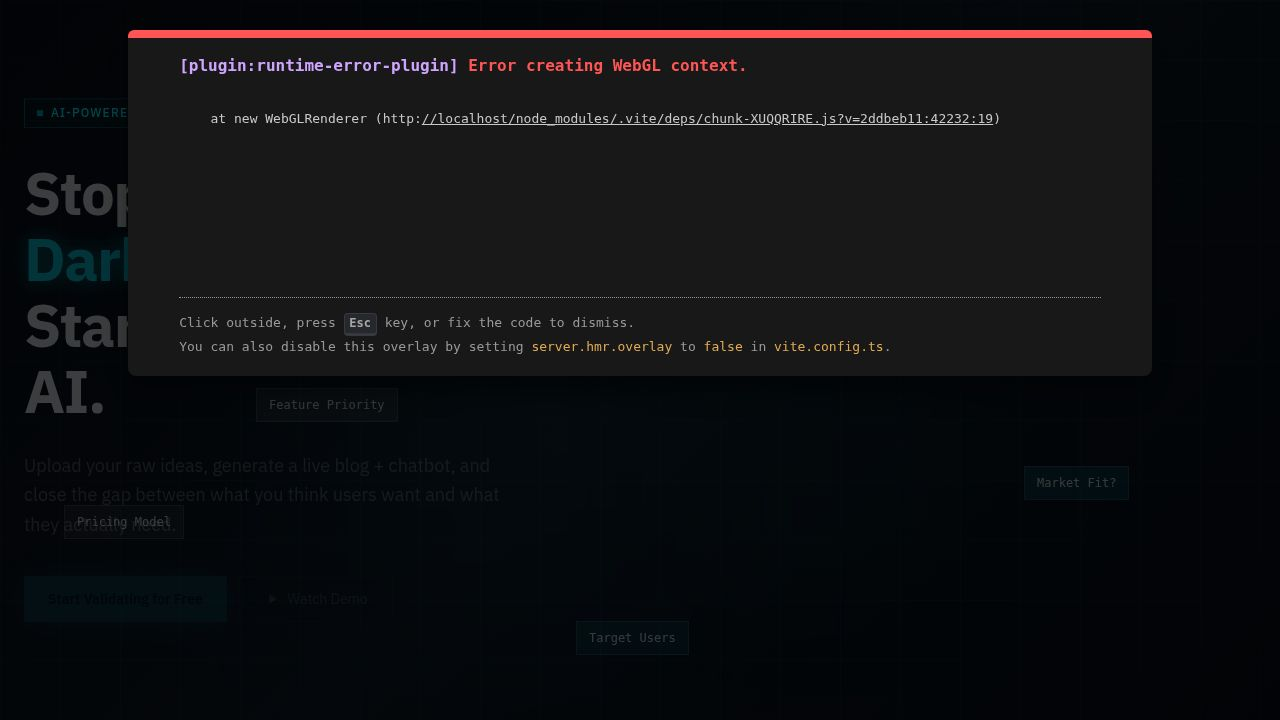
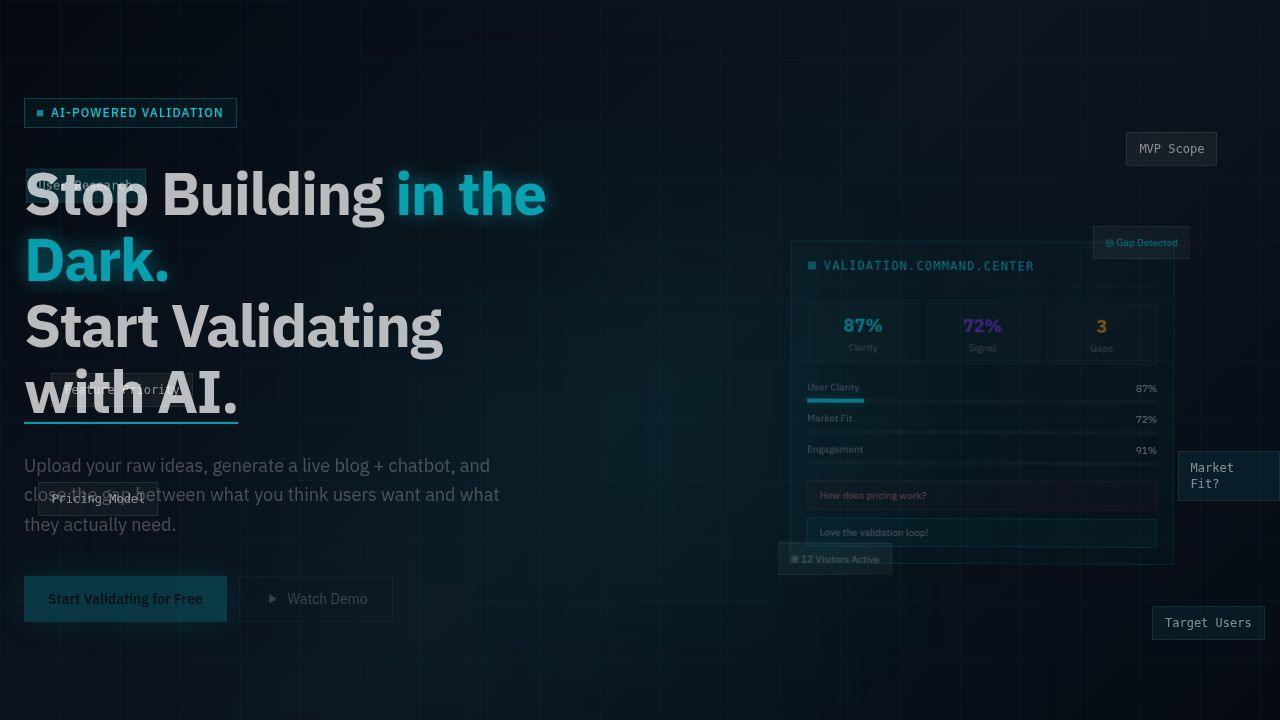
Refine page visuals and element positioning for better user experience
Adjusted CSS and component structures across various sections, including HeroSection.tsx, FeaturesSection.tsx, and MetricsSection.tsx, to improve visual appeal and layout. Modified positioning of interactive elements, added new animations like `shimmer`, and refined the appearance of cards and backgrounds.

Replit-Commit-Author: Agent
Replit-Commit-Session-Id: 7c1fd078-61de-4cb2-ab9d-bb225ae4c3d0
Replit-Commit-Checkpoint-Type: full_checkpoint
Replit-Commit-Event-Id: 4e6755e3-80e5-4043-b65a-4391f5f2b18a
Replit-Commit-Screenshot-Url: https://storage.googleapis.com/screenshot-production-us-central1/da4a26af-8da9-4b47-a4df-8cdd12bb246f/7c1fd078-61de-4cb2-ab9d-bb225ae4c3d0/DOHwiXe
Replit-Helium-Checkpoint-Created: true

diff --git a/artifacts/neesh-ai/src/components/sections/HeroSection.tsx b/artifacts/neesh-ai/src/components/sections/HeroSection.tsx
@@ -73,12 +73,12 @@ function DashboardPreview2D() {
 }
 
 const ideaFragments = [
-  { text: "User Research", color: "rgba(9,218,237,0.12)", x: "8%", y: "22%" },
-  { text: "MVP Scope", color: "rgba(255,255,255,0.05)", x: "72%", y: "17%" },
-  { text: "Market Fit?", color: "rgba(9,218,237,0.08)", x: "78%", y: "58%" },
-  { text: "Pricing Model", color: "rgba(255,255,255,0.04)", x: "4%", y: "62%" },
-  { text: "Target Users", color: "rgba(9,218,237,0.07)", x: "42%", y: "78%" },
-  { text: "Feature Priority", color: "rgba(255,255,255,0.05)", x: "18%", y: "48%" },
+  { text: "User Research", color: "rgba(9,218,237,0.09)", x: "87%", y: "14%" },
+  { text: "MVP Scope", color: "rgba(255,255,255,0.05)", x: "90%", y: "34%" },
+  { text: "Market Fit?", color: "rgba(9,218,237,0.07)", x: "85%", y: "72%" },
+  { text: "Pricing Model", color: "rgba(255,255,255,0.04)", x: "88%", y: "86%" },
+  { text: "Target Users", color: "rgba(9,218,237,0.06)", x: "1%", y: "82%" },
+  { text: "Feature Priority", color: "rgba(255,255,255,0.04)", x: "1%", y: "90%" },
 ];
 
 function GlitchCard({ text, color, x, y, delay }: { text: string; color: string; x: string; y: string; delay: number }) {
@@ -102,7 +102,7 @@ function GlitchCard({ text, color, x, y, delay }: { text: string; color: string;
 
   return (
     <div
-      className={`absolute px-3 py-2 text-xs text-white/50 border border-white/8 font-mono hidden md:block ${glitching ? "animate-glitch" : "animate-float"}`}
+      className={`absolute px-3 py-2 text-xs text-white/40 border border-white/8 font-mono hidden md:block pointer-events-none select-none z-0 ${glitching ? "animate-glitch" : "animate-float"}`}
       style={{ left: x, top: y, background: color, animationDelay: `${delay}ms` }}
     >
       {text}
@@ -119,7 +119,7 @@ export default function HeroSection() {
   return (
     <section
       ref={containerRef}
-      className="relative min-h-screen section-dark flex items-center overflow-hidden"
+      className="relative min-h-[100vh] section-dark flex items-center overflow-hidden"
     >
       {/* Background grid */}
       <div
@@ -235,6 +235,9 @@ export default function HeroSection() {
         <span className="text-white/30 text-xs tracking-widest uppercase">Scroll</span>
         <div className="w-0.5 h-8 bg-gradient-to-b from-[#09daed]/60 to-transparent animate-pulse" />
       </motion.div>
+
+      {/* Section separator */}
+      <div className="absolute bottom-0 left-0 right-0 h-px bg-gradient-to-r from-transparent via-[#09daed]/20 to-transparent" />
     </section>
   );
 }

diff --git a/artifacts/neesh-ai/src/components/sections/ProblemLoopSection.tsx b/artifacts/neesh-ai/src/components/sections/ProblemLoopSection.tsx
@@ -51,7 +51,7 @@ export default function ProblemLoopSection() {
   const cy = 175;
 
   return (
-    <section ref={sectionRef} className="relative section-dark py-24 overflow-hidden">
+    <section ref={sectionRef} className="relative section-dark py-32 overflow-hidden">
       <div className="absolute inset-0 opacity-[0.03]"
         style={{
           backgroundImage: `radial-gradient(#09daed 1px, transparent 1px)`,
@@ -65,6 +65,8 @@ export default function ProblemLoopSection() {
           <div className="flex items-center justify-center">
             <div className="relative" style={{ width: 350, height: 350 }}>
               <svg width="350" height="350" className="absolute inset-0">
+                {/* Dotted path behind nodes */}
+                <circle cx={cx} cy={cy} r={R} fill="none" stroke="rgba(255,255,255,0.05)" strokeWidth="1" strokeDasharray="4 8" />
                 {/* Outer ring */}
                 <circle cx={cx} cy={cy} r={R} fill="none" stroke="rgba(9,218,237,0.1)" strokeWidth="1" />
                 <circle cx={cx} cy={cy} r={R} fill="none" stroke="rgba(9,218,237,0.3)" strokeWidth="1"
@@ -110,13 +112,13 @@ export default function ProblemLoopSection() {
                     key={node.label}
                     className="absolute flex flex-col items-center"
                     style={{
-                      left: cx + x - 32,
-                      top: cy + y - 32,
-                      width: 64,
+                      left: cx + x - 34,
+                      top: cy + y - 34,
+                      width: 68,
                     }}
                   >
                     <div
-                      className={`w-14 h-14 border flex items-center justify-center text-xs font-semibold transition-all duration-500 ${
+                      className={`w-[68px] h-[68px] border flex items-center justify-center text-xs font-semibold transition-all duration-500 ${
                         isActive
                           ? "border-[#09daed] bg-[#09daed]/20 text-[#09daed] shadow-[0_0_20px_rgba(9,218,237,0.4)]"
                           : "border-white/10 bg-white/5 text-white/30"
@@ -190,6 +192,9 @@ export default function ProblemLoopSection() {
           </div>
         </div>
       </div>
+
+      {/* Section separator */}
+      <div className="absolute bottom-0 left-0 right-0 h-px bg-gradient-to-r from-transparent via-[#09daed]/20 to-transparent" />
     </section>
   );
 }

diff --git a/artifacts/neesh-ai/src/components/sections/MetricsSection.tsx b/artifacts/neesh-ai/src/components/sections/MetricsSection.tsx
@@ -68,6 +68,9 @@ export default function MetricsSection() {
 
   return (
     <section className="relative section-dark py-24 overflow-hidden">
+      {/* Background radial gradient */}
+      <div className="absolute inset-0 bg-[radial-gradient(circle_at_center,rgba(9,218,237,0.03)_0%,transparent_70%)]" />
+
       <ParticleField />
 
       {/* AI Core Glow */}
@@ -75,13 +78,14 @@ export default function MetricsSection() {
       <div className="absolute top-1/2 left-1/2 -translate-x-1/2 -translate-y-1/2 w-48 h-48 bg-[#09daed]/8 blur-[50px] pointer-events-none" />
 
       <div className="max-w-7xl mx-auto px-6 relative z-10">
-        <div ref={ref as React.RefObject<HTMLDivElement>} className="text-center mb-16">
+        <div ref={ref as React.RefObject<HTMLDivElement>} className="text-center mb-16 flex flex-col items-center">
           <motion.div
             initial={{ opacity: 0, y: 20 }}
             animate={inView ? { opacity: 1, y: 0 } : {}}
-            className="text-[#09daed] text-xs font-medium tracking-widest uppercase mb-4"
+            className="inline-flex items-center gap-2 px-3 py-1.5 border border-[#09daed]/30 bg-[#09daed]/5 mb-6"
           >
-            AI Metrics
+            <div className="w-1.5 h-1.5 bg-[#09daed] rounded-full animate-pulse" />
+            <span className="text-[#09daed] text-xs font-medium tracking-widest uppercase">AI Core • Live</span>
           </motion.div>
           <motion.h2
             initial={{ opacity: 0, y: 20 }}
@@ -94,7 +98,7 @@ export default function MetricsSection() {
           </motion.h2>
         </div>
 
-        <div className="grid grid-cols-1 sm:grid-cols-2 lg:grid-cols-4 gap-6">
+        <div className="grid grid-cols-1 sm:grid-cols-2 lg:grid-cols-4 gap-6 mb-8">
           {METRICS.map((metric, i) => (
             <motion.div
               key={metric.label}
@@ -129,6 +133,9 @@ export default function MetricsSection() {
           ))}
         </div>
       </div>
+
+      {/* Section separator */}
+      <div className="absolute bottom-0 left-0 right-0 h-px bg-gradient-to-r from-transparent via-[#09daed]/20 to-transparent" />
     </section>
   );
 }

diff --git a/artifacts/neesh-ai/src/components/sections/PricingSection.tsx b/artifacts/neesh-ai/src/components/sections/PricingSection.tsx
@@ -69,9 +69,10 @@ function PricingCard({ plan, index }: { plan: typeof PLANS[0]; index: number }) 
       transition={{ duration: 0.6, delay: index * 0.15 }}
       className={`relative p-6 border flex flex-col ${
         plan.highlight
-          ? "border-[#09daed]/60 bg-gradient-to-b from-[#09daed]/8 to-transparent"
+          ? "border-[#09daed]/60 bg-gradient-to-b from-[#09daed]/8 to-transparent scale-[1.03] z-10"
           : "border-white/10 bg-white/2"
       }`}
+      style={plan.highlight ? { boxShadow: "0 0 40px rgba(9,218,237,0.15)" } : {}}
     >
       {plan.highlight && (
         <div className="absolute -top-px left-0 right-0 h-0.5 bg-[#09daed]" />
@@ -161,7 +162,19 @@ export default function PricingSection() {
             <PricingCard key={plan.name} plan={plan} index={i} />
           ))}
         </div>
+
+        <motion.div
+          initial={{ opacity: 0 }}
+          animate={inView ? { opacity: 1 } : {}}
+          transition={{ duration: 0.6, delay: 0.5 }}
+          className="text-center mt-12 text-white/40 text-sm"
+        >
+          30-day money-back guarantee • No setup fees • Cancel anytime
+        </motion.div>
       </div>
+
+      {/* Section separator */}
+      <div className="absolute bottom-0 left-0 right-0 h-px bg-gradient-to-r from-transparent via-[#09daed]/20 to-transparent" />
     </section>
   );
 }

diff --git a/artifacts/neesh-ai/src/components/sections/FooterSection.tsx b/artifacts/neesh-ai/src/components/sections/FooterSection.tsx
@@ -13,6 +13,7 @@ export default function FooterSection() {
 
   return (
     <footer className="section-dark border-t border-white/5 pt-16 pb-8">
+      <div className="w-full h-px bg-gradient-to-r from-transparent via-[#09daed]/40 to-transparent mb-16" />
       <div className="max-w-7xl mx-auto px-6">
         <div
           ref={ref as React.RefObject<HTMLDivElement>}
@@ -35,10 +36,10 @@ export default function FooterSection() {
                 Turn your raw ideas into validated products using AI-powered feedback loops and intelligent gap detection.
               </p>
               <div className="flex items-center gap-3">
-                {["X", "Li", "Gh", "Ds"].map((social) => (
+                {["𝕏", "in", "gh", "ds"].map((social) => (
                   <div
                     key={social}
-                    className="w-8 h-8 border border-white/10 flex items-center justify-center text-white/40 text-xs hover:border-[#09daed]/40 hover:text-[#09daed] transition-all duration-200 cursor-pointer"
+                    className="w-8 h-8 border border-white/10 flex items-center justify-center text-white/40 text-xs hover:border-[#09daed]/40 hover:text-[#09daed] transition-all duration-200 cursor-pointer font-medium"
                   >
                     {social}
                   </div>

diff --git a/artifacts/neesh-ai/src/components/sections/FeaturesSection.tsx b/artifacts/neesh-ai/src/components/sections/FeaturesSection.tsx
@@ -46,6 +46,14 @@ function FeatureCard({ feature, index }: { feature: typeof FEATURES[0]; index: n
       className="group relative glass-dark p-6 border border-white/5 hover:border-[#09daed]/30 transition-all duration-300"
       style={{ animationDelay: `${index * 100}ms` }}
     >
+      {/* Number badge */}
+      <div className="absolute top-2 left-2 text-[10px] text-white/20 font-mono">
+        {String(index + 1).padStart(2, '0')}
+      </div>
+      
+      {/* Thin left border accent */}
+      <div className="absolute top-0 left-0 bottom-0 w-[2px] bg-transparent group-hover:bg-[#09daed] transition-colors duration-300" />
+
       {/* Corner accent */}
       <div className="absolute top-0 right-0 w-8 h-8 border-t border-r border-[#09daed]/0 group-hover:border-[#09daed]/40 transition-all duration-300" />
       <div className="absolute bottom-0 left-0 w-8 h-8 border-b border-l border-[#09daed]/0 group-hover:border-[#09daed]/40 transition-all duration-300" />
@@ -118,6 +126,9 @@ export default function FeaturesSection() {
           </motion.div>
         </div>
       </div>
+
+      {/* Section separator */}
+      <div className="absolute bottom-0 left-0 right-0 h-px bg-gradient-to-r from-transparent via-[#09daed]/20 to-transparent" />
     </section>
   );
 }

diff --git a/artifacts/neesh-ai/src/components/sections/TestimonialsSection.tsx b/artifacts/neesh-ai/src/components/sections/TestimonialsSection.tsx
@@ -22,7 +22,7 @@ export default function TestimonialsSection() {
   const { ref, inView } = useInView(0.2);
 
   return (
-    <section className="section-light py-24">
+    <section className="bg-gray-50 border-t border-b border-gray-100 py-24">
       <div className="max-w-5xl mx-auto px-6">
         <div ref={ref as React.RefObject<HTMLDivElement>} className="text-center mb-16">
           <motion.div
@@ -52,8 +52,11 @@ export default function TestimonialsSection() {
               className="p-8 border border-gray-100 bg-white relative"
               style={{ boxShadow: "0 1px 20px rgba(0,0,0,0.06)" }}
             >
-              {/* Quote mark */}
-              <div className="text-6xl font-bold leading-none mb-4" style={{ color: `${t.color}20` }}>"</div>
+              {/* Quote mark and stars */}
+              <div className="flex items-center justify-between mb-4">
+                <div className="text-6xl font-bold leading-none" style={{ color: `${t.color}20` }}>"</div>
+                <div className="text-[#09daed] tracking-widest text-lg">★★★★★</div>
+              </div>
 
               <blockquote className="text-gray-800 text-lg font-medium leading-relaxed mb-6">
                 "{t.quote}"

diff --git a/artifacts/neesh-ai/src/index.css b/artifacts/neesh-ai/src/index.css
@@ -116,12 +116,22 @@
   50% { opacity: 0.85; filter: brightness(1.2) hue-rotate(10deg); }
 }
 
+@keyframes shimmer {
+  0% { background-position: -200% 0; }
+  100% { background-position: 200% 0; }
+}
+
 .animate-float { animation: float 4s ease-in-out infinite; }
 .animate-float-slow { animation: float-slow 6s ease-in-out infinite; }
 .animate-pulse-glow { animation: pulse-glow 2s ease-in-out infinite; }
 .animate-spin-slow { animation: spin-slow 20s linear infinite; }
 .animate-hologram { animation: hologram 3s ease-in-out infinite; }
 .animate-glitch { animation: glitch 0.8s ease-in-out forwards; }
+.animate-shimmer {
+  background: linear-gradient(90deg, rgba(255,255,255,0) 0%, rgba(255,255,255,0.05) 50%, rgba(255,255,255,0) 100%);
+  background-size: 200% 100%;
+  animation: shimmer 3s infinite;
+}
 
 .glitch-card {
   animation: float 3s ease-in-out infinite;
@@ -159,6 +169,13 @@
 
 .cyan-text-glow {
   text-shadow: 0 0 20px rgba(9, 218, 237, 0.6);
+}
+
+.text-gradient {
+  background: linear-gradient(135deg, #09daed, #ffffff);
+  -webkit-background-clip: text;
+  -webkit-text-fill-color: transparent;
+  background-clip: text;
 }
 
 /* Section styles */

diff --git a/artifacts/neesh-ai/src/App.tsx b/artifacts/neesh-ai/src/App.tsx
@@ -40,21 +40,23 @@ function App() {
   }, []);
 
   return (
-    <div className="relative">
-      <Navbar />
-      <main>
-        <HeroSection />
-        <ProblemLoopSection />
-        <ProductSimSection />
-        <FeaturesSection />
-        <MetricsSection />
-        <PersonaSection />
-        <TransformSection />
-        <PricingSection />
-        <TestimonialsSection />
-        <FinalCTASection />
-      </main>
-      <FooterSection />
+    <div style={{ position: "relative" }}>
+      <div className="relative">
+        <Navbar />
+        <main>
+          <HeroSection />
+          <ProblemLoopSection />
+          <ProductSimSection />
+          <FeaturesSection />
+          <MetricsSection />
+          <PersonaSection />
+          <TransformSection />
+          <PricingSection />
+          <TestimonialsSection />
+          <FinalCTASection />
+        </main>
+        <FooterSection />
+      </div>
     </div>
   );
 }

diff --git a/artifacts/neesh-ai/src/components/Navbar.tsx b/artifacts/neesh-ai/src/components/Navbar.tsx
@@ -22,7 +22,7 @@ export default function Navbar() {
     >
       <div className="max-w-7xl mx-auto px-6 h-16 flex items-center justify-between">
         <div className="flex items-center gap-2">
-          <div className="w-7 h-7 bg-[#09daed] flex items-center justify-center">
+          <div className="w-7 h-7 bg-[#09daed] flex items-center justify-center shadow-[inset_0_0_8px_rgba(255,255,255,0.5)]">
             <span className="text-black font-bold text-xs">N</span>
           </div>
           <span className="text-white font-semibold text-sm tracking-wide">Neesh AI</span>

diff --git a/artifacts/neesh-ai/src/components/sections/FinalCTASection.tsx b/artifacts/neesh-ai/src/components/sections/FinalCTASection.tsx
@@ -23,6 +23,7 @@ export default function FinalCTASection() {
           initial={{ opacity: 0, scale: 0.95 }}
           animate={inView ? { opacity: 1, scale: 1 } : {}}
           transition={{ duration: 0.8 }}
+          className="border border-[#09daed]/20 p-12 bg-[#050a12]/50 backdrop-blur-sm animate-pulse-glow"
         >
           {/* Minimal UI collapse animation */}
           <motion.div

diff --git a/artifacts/neesh-ai/src/components/sections/TransformSection.tsx b/artifacts/neesh-ai/src/components/sections/TransformSection.tsx
@@ -176,6 +176,9 @@ export default function TransformSection() {
           </div>
         </div>
       </div>
+
+      {/* Section separator */}
+      <div className="absolute bottom-0 left-0 right-0 h-px bg-gradient-to-r from-transparent via-[#09daed]/20 to-transparent" />
     </section>
   );
 }
